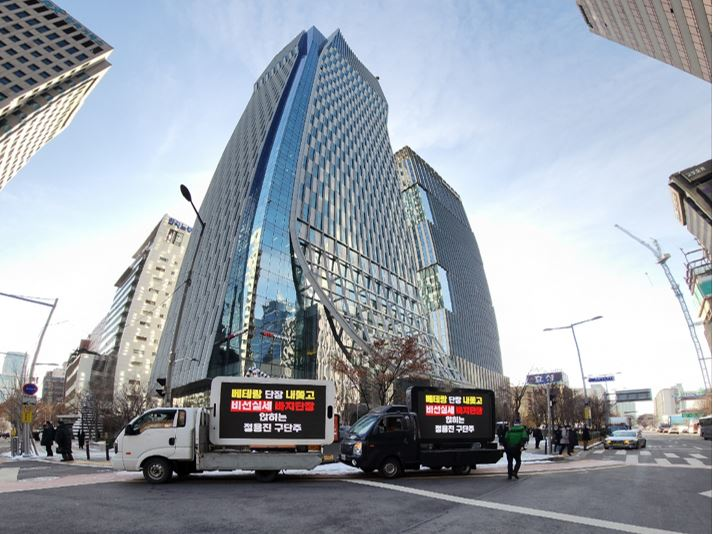
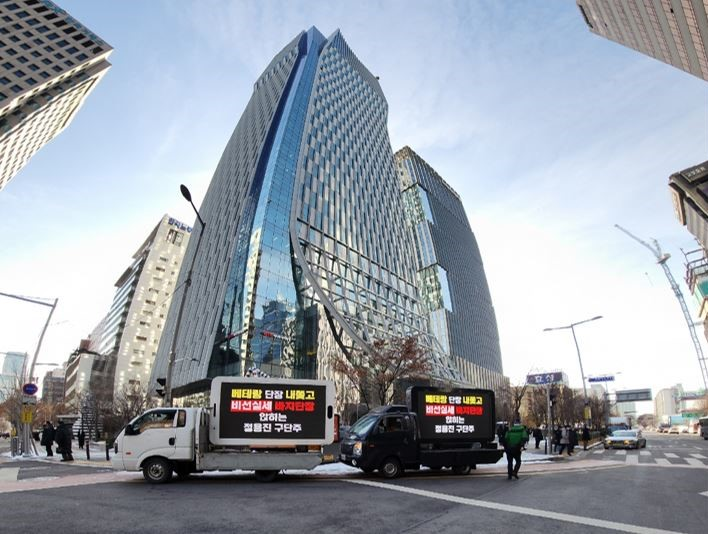
타임스퀘어 추가

diff --git a/index.html b/index.html
@@ -248,6 +248,23 @@
                         <img class="img-fluid" src="assets/img/portfolio/photo_18.jpg" alt="..." />
                     </div>
                 </div>
+                <!-- Portfolio Item 19~21 -->
+                <div class="col-md-6 col-lg-4 mb-5">
+                    <div class="portfolio-item mx-auto" data-bs-toggle="modal" data-bs-target="#portfolioModal19">
+                        <div class="portfolio-item-caption d-flex align-items-center justify-content-center h-100 w-100">
+                            <div class="portfolio-item-caption-content text-center text-white"><i class="fas fa-plus fa-3x"></i></div>
+                        </div>
+                        <img class="img-fluid" src="assets/img/portfolio/photo_19.jpg" alt="..." />
+                    </div>
+                </div>
+                <!--<div class="col-md-6 col-lg-4 mb-5">
+                    <div class="portfolio-item mx-auto" data-bs-toggle="modal" data-bs-target="#portfolioModal20">
+                        <div class="portfolio-item-caption d-flex align-items-center justify-content-center h-100 w-100">
+                            <div class="portfolio-item-caption-content text-center text-white"><i class="fas fa-plus fa-3x"></i></div>
+                        </div>
+                        <img class="img-fluid" src="assets/img/portfolio/photo_20.jpg" alt="..." />
+                    </div>
+                </div>-->
             </div>
         </div>
     </div>
@@ -761,6 +778,34 @@
                             <img class="img-fluid rounded mb-5" src="assets/img/portfolio/photo_18.jpg" alt="..." />
                             <p class="mb-1">2022. 12. 16.</p>
                             <p class="mb-5">국회의사당 앞</p>
+                            <button class="btn btn-dark" data-bs-dismiss="modal">
+                                <i class="fas fa-xmark fa-fw"></i>
+                                닫기
+                            </button>
+                        </div>
+                    </div>
+                </div>
+            </div>
+        </div>
+    </div>
+</div>
+<div class="portfolio-modal modal fade" id="portfolioModal19" tabindex="-1" aria-labelledby="portfolioModal19" aria-hidden="true">
+    <div class="modal-dialog modal-xl">
+        <div class="modal-content">
+            <div class="modal-header border-0"><button class="btn-close" type="button" data-bs-dismiss="modal" aria-label="Close"></button></div>
+            <div class="modal-body text-center pb-5">
+                <div class="container">
+                    <div class="row justify-content-center">
+                        <div class="col-lg-8">
+                            <h2 class="portfolio-modal-title text-secondary text-uppercase mb-0">2022. 12. 16.</h2>
+                            <div class="divider-custom">
+                                <div class="divider-custom-line"></div>
+                                <div class="divider-custom-icon"><i class="fa-solid fa-baseball"></i></div>
+                                <div class="divider-custom-line"></div>
+                            </div>
+                            <img class="img-fluid rounded mb-5" src="assets/img/portfolio/photo_19.jpg" alt="..." />
+                            <p class="mb-1">2022. 12. 16.</p>
+                            <p class="mb-5">영등포 타임스퀘어</p>
                             <button class="btn btn-dark" data-bs-dismiss="modal">
                                 <i class="fas fa-xmark fa-fw"></i>
                                 닫기
